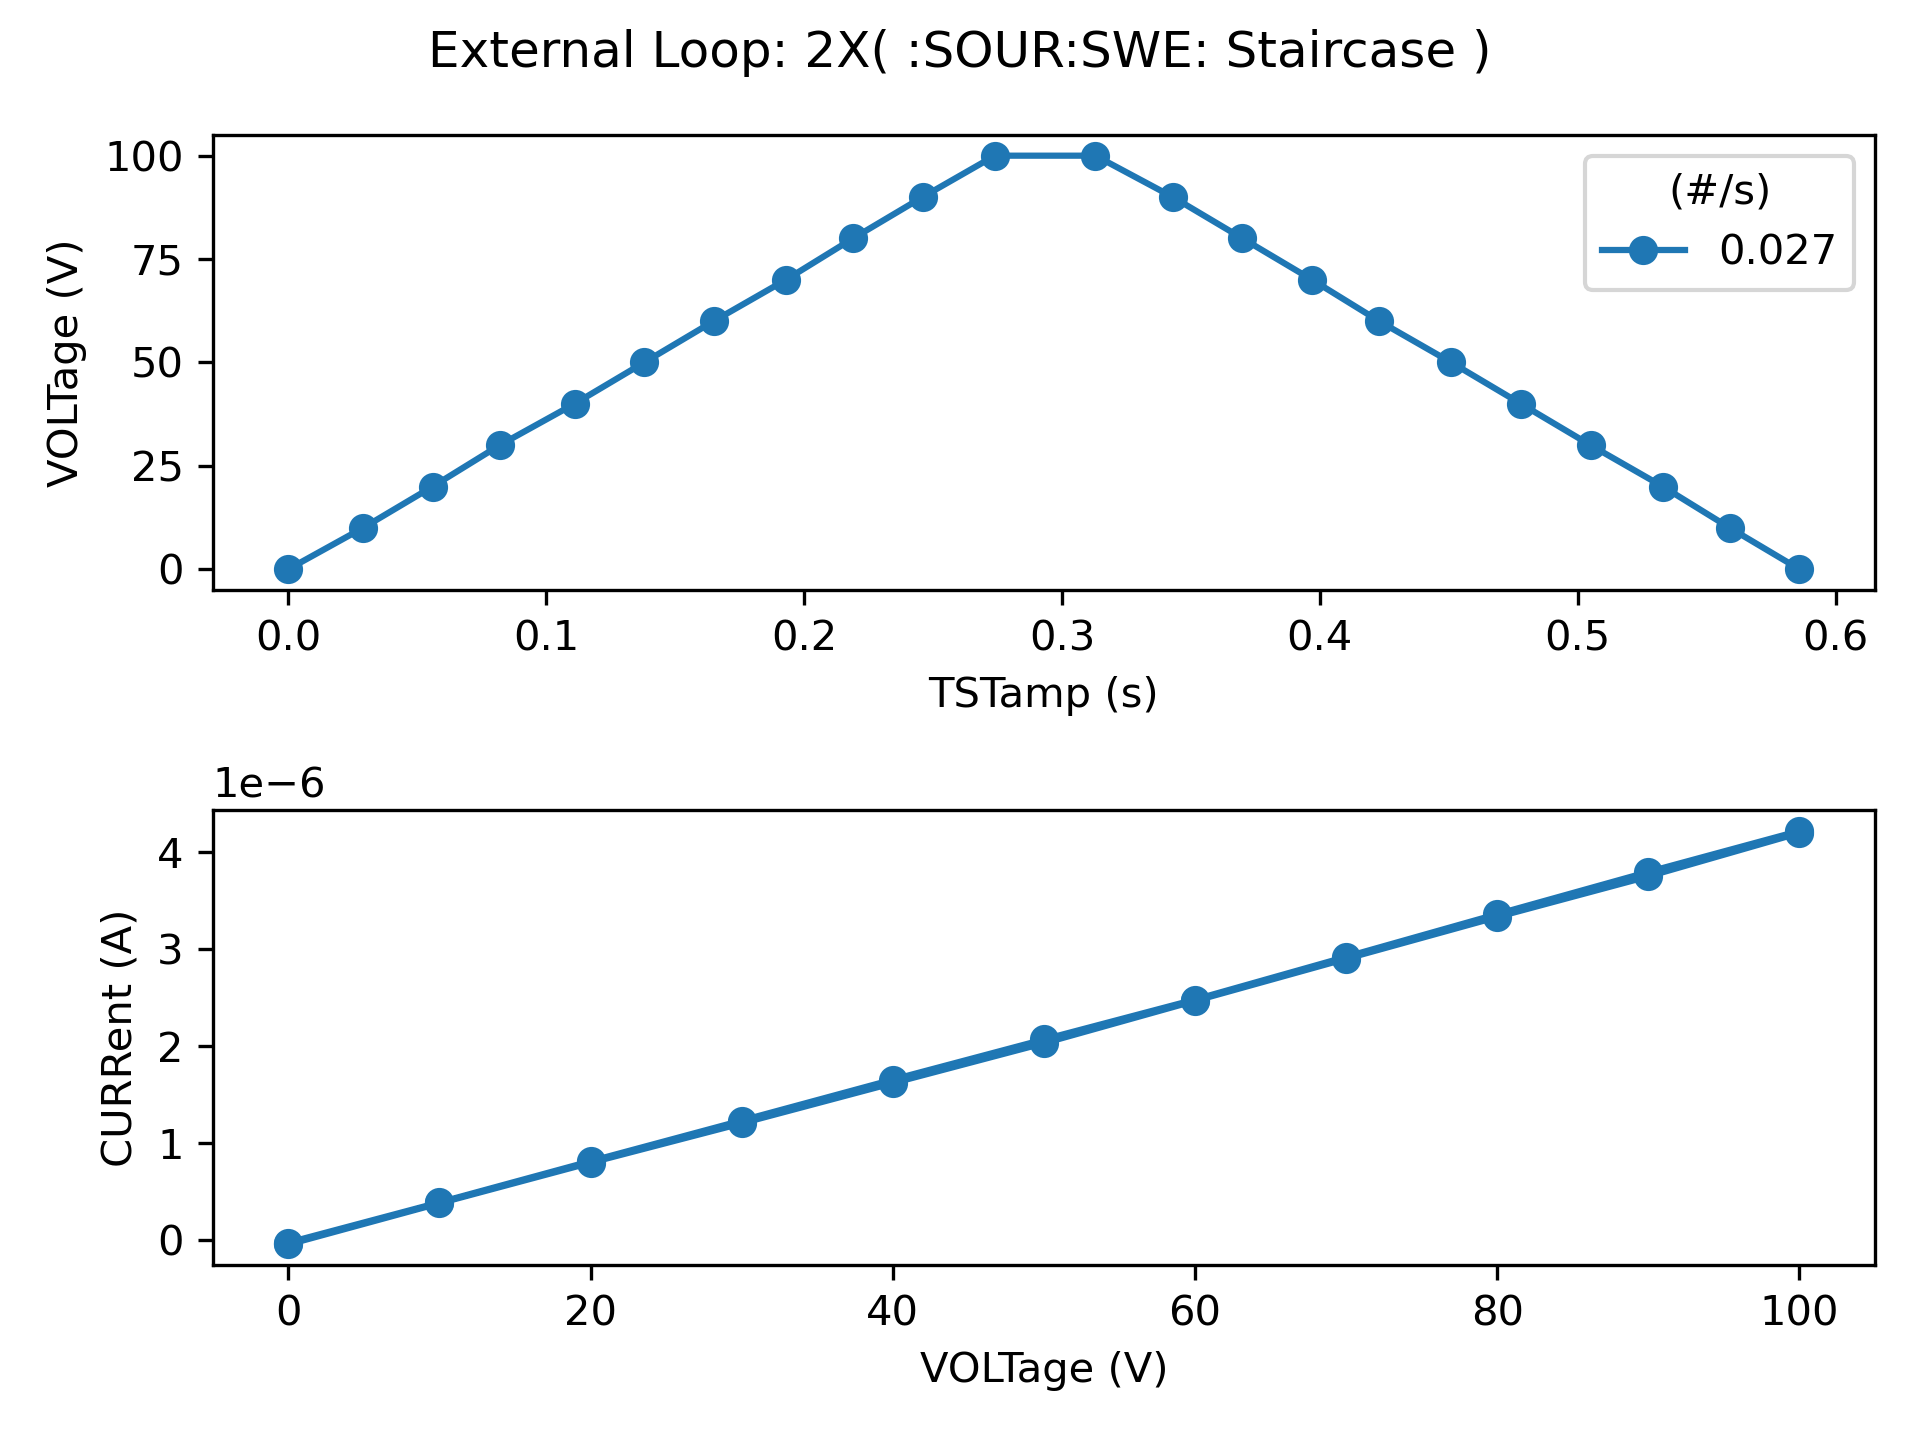
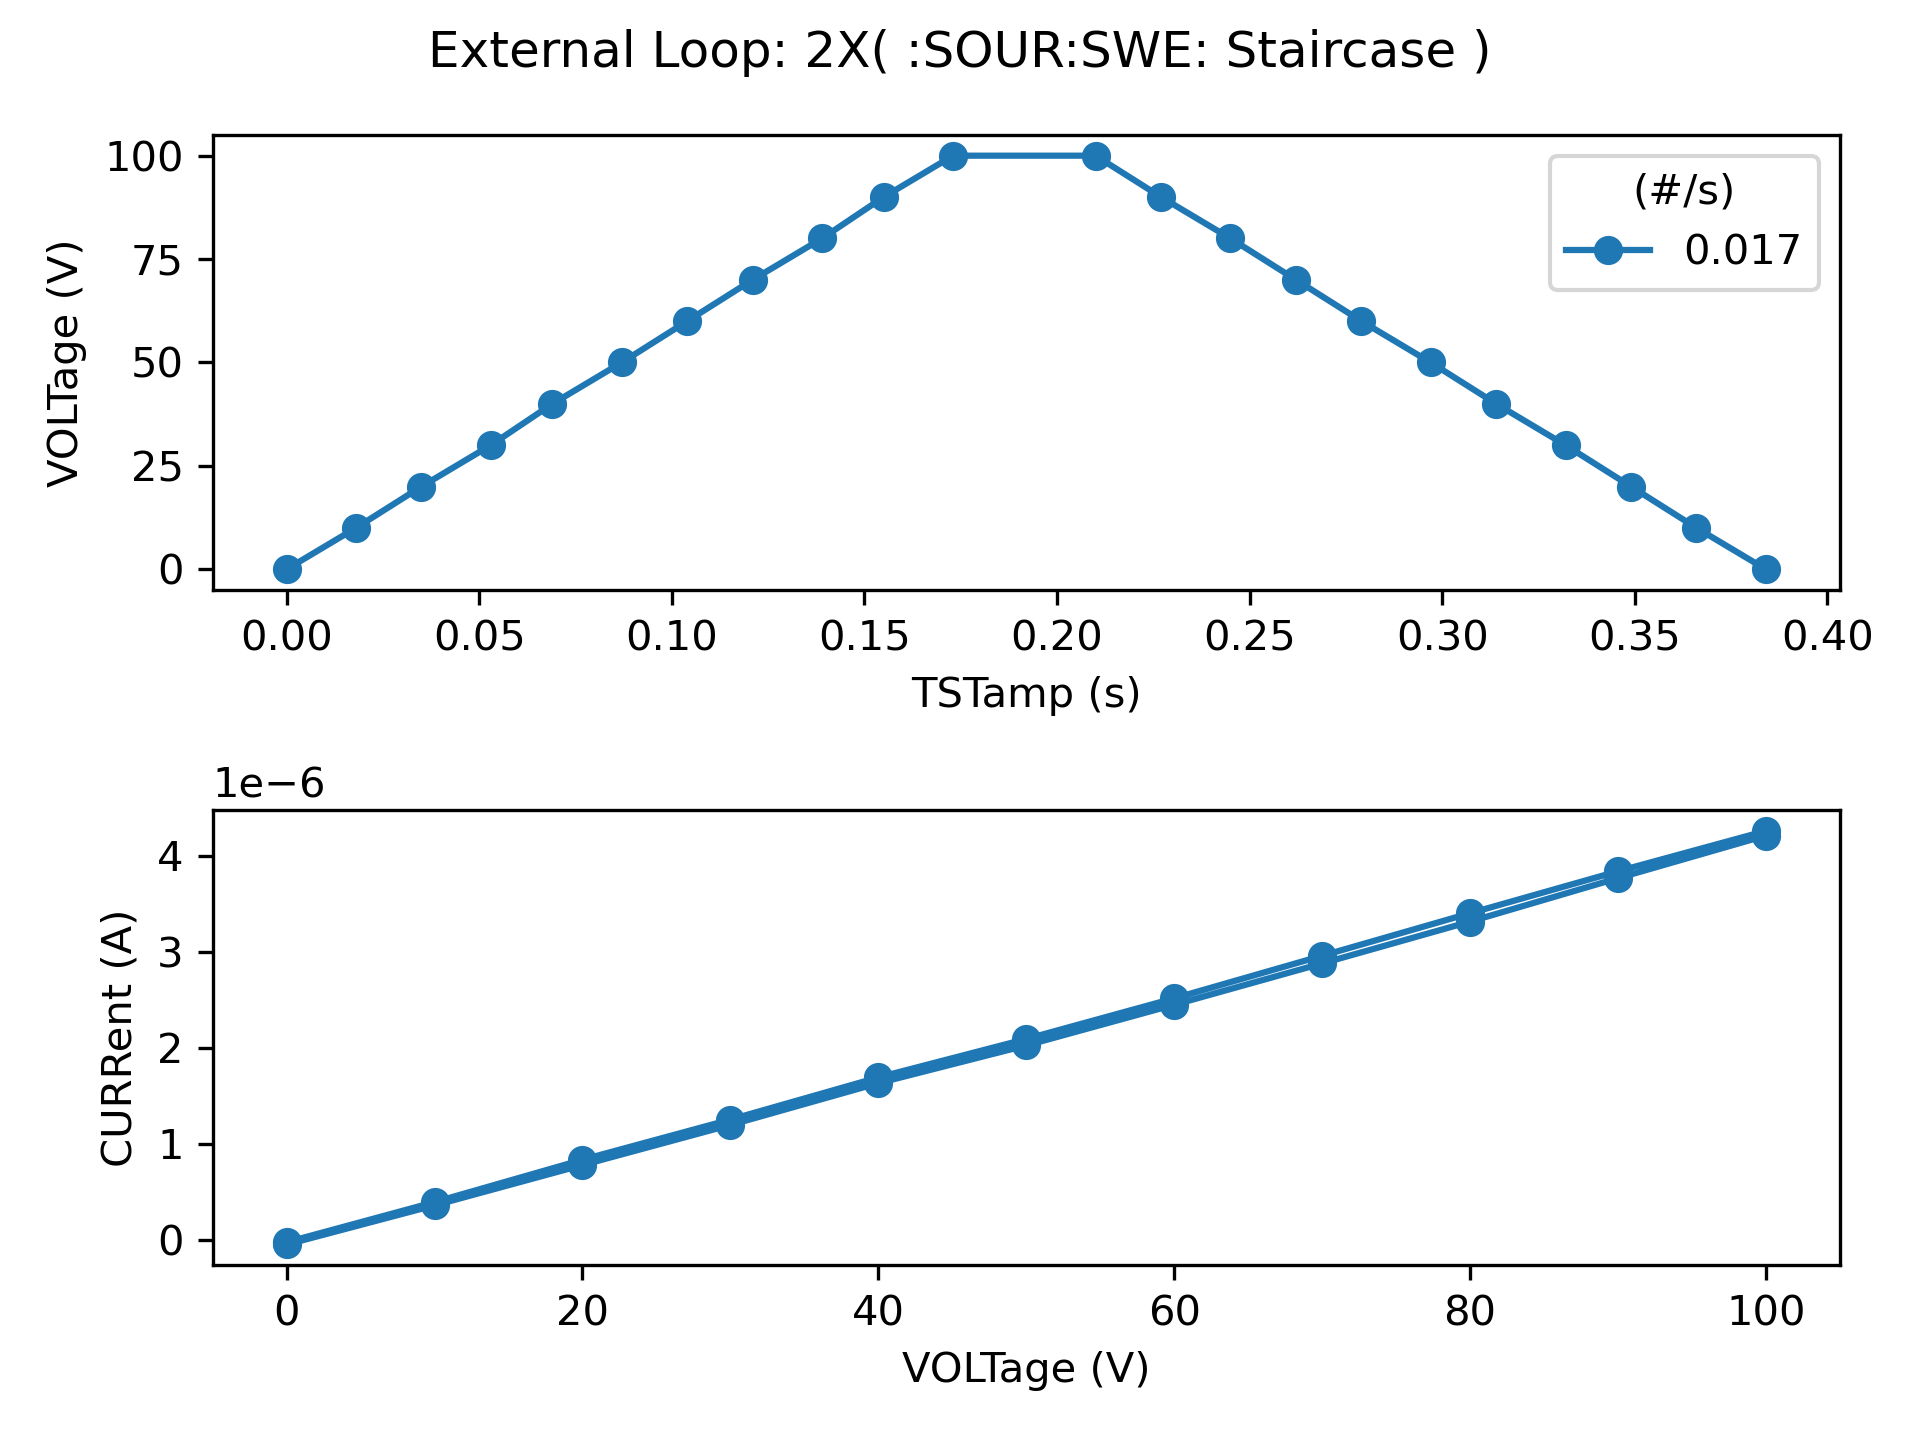
modified keithley list (ex8) to run a speed test comparison with ex7 sweep up and down

diff --git a/examples/darkroom/ex8_keithley_manual_custom_sweep.py b/examples/darkroom/ex8_keithley_manual_custom_sweep.py
@@ -1,7 +1,67 @@
+from os.path import join
 import pyvisa
 import numpy as np
+import matplotlib.pyplot as plt
+
+# --- FUNCTION FOR CONVERTING NUMPY ARRAY TO STRING LIST FOR KEITHLEY
+
+def append_reverse(arr, single_point_max):
+    """
+    Append a NumPy array to itself in reverse order.
+    """
+    reversed_arr = arr[::-1]
+
+    if single_point_max is True:
+        reversed_arr = reversed_arr[1:]
+
+    appended_arr = np.concatenate((arr, reversed_arr))
+
+    return appended_arr
+
+def numpy_array_to_string(arr):
+    # Convert the NumPy array elements to strings
+    str_arr = arr.astype(str)
+
+    # Join the string elements with commas
+    joined_str = ','.join(str_arr)
+
+    return joined_str
+
+
+
+# ---
+
+# --- KEITHLEY CODE
 
 GPIB = 23
+
+# RANGE
+start, stop, step = 0, 100, 10
+values = np.arange(start, stop + step, step)
+values_up_and_down = append_reverse(values, single_point_max=True)
+values_lst = numpy_array_to_string(values_up_and_down)
+num_points = len(values_up_and_down)
+
+current_range = 110E-6
+
+"""
+val = np.arange(len(values_up_and_down))
+plt.plot(val, values_up_and_down, '-o', label=num_points)
+plt.legend()
+plt.show()
+print(values_lst)
+raise ValueError()
+"""
+
+# FREQUENCY
+source_measure_delay = 0.005  # (s)
+NPLC = 0.25  # (Number of Power Line Cycles)
+integration_period = NPLC / 60
+
+# DATA TYPES
+elements_sense = 'VOLTage, CURRent, TIME'  #, RESistance, STATus
+idxV, idxC, idxT, idxR, idxSTAT = 0, 1, 2, 3, 4
+num_elements = len(elements_sense.split(','))
 
 # ---
 
@@ -10,17 +70,24 @@ keithley = rm.open_resource("GPIB::{}".format(GPIB))
 
 # 0.
 keithley.write('*RST')  # Restore GPIB default
-keithley.write(':SENS:FUNC:CONC OFF')  # Turn off concurrent functions.
+
+keithley.write(':FORMat:ELEMents:SENSe ' + elements_sense)
+keithley.write(':DATA:TSTamp:FORMat DELTa')
+
+# keithley.write(':SENS:FUNC:CONC OFF')  # Turn off concurrent functions.
 keithley.write(':SOUR:FUNC VOLT')  # Volts source function.
+keithley.write(':SOUR:VOLT:RANG MAX')  # Select V-source range (n = range).
 keithley.write(':SENS:FUNC "CURR:DC"')  # Current sense function.
-keithley.write(':SENS:CURR:PROT 1E-3')  # 100mA current compliance.
+keithley.write(':SENS:CURR:PROT %g' % current_range)  # 1 mA current compliance.
+keithley.write(':SENS:CURR:RANG %g' % current_range)  # 1 mA current compliance.
+keithley.write(':SENS:CURR:NPLC %g' % NPLC)  # Specify integration rate (in line cycles): [0.01 to 10E3] (default = 1)
+
+
 keithley.write(':SOUR:VOLT:MODE LIST')  # List volts sweep mode.
-keithley.write(':SOUR:LIST:VOLT 7,1,3,8,2')  # 7V, 1V, 3V, 8V, 2V sweep points.
-keithley.write(':TRIG:COUN 5')  # Trigger count = # sweep points.
-# NOTE:
-#       * For single sweep, trigger count should equal number of points in the sweep: Points = (Stop-Start)/Step + 1.
-#       * You can use ':SOUR:SWE:POIN?' query to read the number of points.
-keithley.write(':SOUR:DEL 0.1')  # 100ms source delay.
+keithley.write(':SOUR:LIST:VOLT ' + values_lst)  # List sweep points.
+keithley.write(':TRIG:COUN ' + str(num_points))  # Trigger count = # sweep points.
+keithley.write(':SOUR:DEL %g' % source_measure_delay)  # 50ms source delay.
+
 keithley.write(':OUTP ON')  # Turn on source output.
 data = keithley.query_ascii_values(':READ?', container=np.array)  # Trigger sweep, request data.
 
@@ -35,6 +102,40 @@ data = keithley.query_ascii_values(':READ?', container=np.array)  # Trigger swee
 
 # Sean Code
 
+# --- POST-PROCESSING
+
+data_elements = keithley.query(':FORMat:ELEMents:SENSe?')
 keithley.write(':OUTP OFF')  # End example given in manual
 
-print(data)
+# Data analysis
+
+print("Data Elements " + data_elements)
+data_struct = np.reshape(data, (num_points, num_elements))
+
+sampling_rate = np.round((data_struct[-1, idxT] - data_struct[0, idxT]) / len(data_struct[:, idxT]), 5)
+print("Sampling Rate: {}".format(np.round(sampling_rate, 4)))
+print("Time to sample 100 points: {}".format(np.round(sampling_rate * 100, 3)))
+print("Time to sample 500 points: {}".format(np.round(sampling_rate * 500, 3)))
+
+# ---
+
+# - PLOTTING
+
+path_results = r'C:\Users\nanolab\PythonProjects\py-pennathur-lab\examples\darkroom\results'
+
+fig, (ax1, ax2) = plt.subplots(nrows=2, gridspec_kw={'height_ratios': [1, 1]})
+
+ax1.plot(data_struct[:, idxT] - data_struct[0, idxT], data_struct[:, idxV], '-o', label=np.round(sampling_rate, 3))
+ax1.set_xlabel('TSTamp (s)')
+ax1.set_ylabel('VOLTage (V)')
+ax1.legend(title='(#/s)')
+
+ax2.plot(data_struct[:, idxV], data_struct[:, idxC], '-o')
+ax2.set_xlabel('VOLTage (V)')
+ax2.set_ylabel('CURRent (A)')
+
+plt.suptitle('External List: ( :SOUR:VOLT:MODE LIST )')
+plt.tight_layout()
+plt.savefig(join(path_results, 'ex8_keithley_manual_custom_sweep.png'), dpi=300)
+plt.show()
+plt.close()

diff --git a/examples/darkroom/ex7_sean_staircase_sweep_up_and_down.py b/examples/darkroom/ex7_sean_staircase_sweep_up_and_down.py
@@ -12,7 +12,7 @@ num_points = len(values)
 current_range = 110E-6
 
 # FREQUENCY
-source_measure_delay = 0.015  # (s)
+source_measure_delay = 0.005  # (s) 0.015
 NPLC = 0.25  # (Number of Power Line Cycles)
 integration_period = NPLC / 60
 
@@ -78,8 +78,6 @@ data = [item for sublist in datas for item in sublist]
 
 print("Data Elements " + data_elements)
 data_struct = np.reshape(data, (num_points * 2, num_elements))
-
-idxV, idxC, idxT, idxR, idxSTAT = 0, 1, 2, 3, 4
 
 sampling_rate = np.round((data_struct[-1, idxT] - data_struct[0, idxT]) / len(data_struct[:, idxT]), 5)
 print("Sampling Rate: {}".format(np.round(sampling_rate, 4)))
